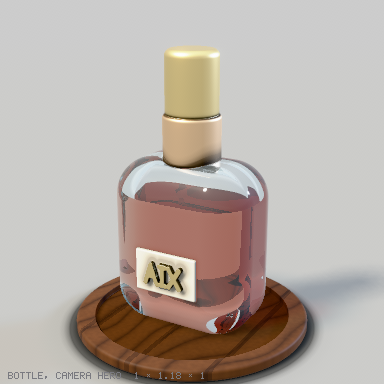
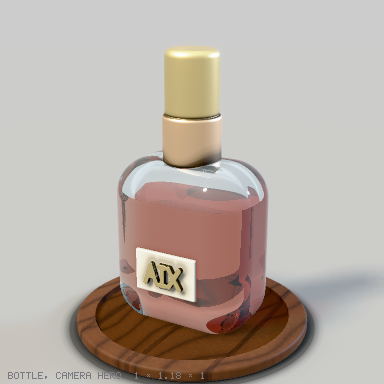
Keep the absorption of glass seen through glass, and light a glass past the reflection budget once
The glass shader kept the absorption along its refracted ray in one array that
every depth of the recursion shared. The exit's trace meets glass again whenever
glass is seen through glass (the chain of two in full quality), and that glass's
own shade reset and refilled the array, so the outer glass lost its absorption
and the inner glass's was applied twice. An amber slab with a clear pane behind
it came out (0.93, 0.87, 0.80) instead of (0.93, 0.26, 0.09); the tumbler's
drink seen from above, through the glass's upper wall, was drawn almost black
(its absorption twice over), and a bottle's shoulder above its liquid took the
liquid's pink. The absorption is now kept per depth.

A glass's directional highlights were added analytically whenever its reflection
was not traced, but an untraced reflection is the sky as a mirror sees it, the
lights' softboxes included, so the light was counted twice: a glass seen in a
mirror in draft quality (the strips), or at the second bounce in full. Its
highlight in the key's slot was half as bright again (15.3 against 10.7). A
directional light's highlight on glass is now always its softbox; point lights,
which have none, keep their analytic one.

Tests: a clear pane behind an amber slab leaves it amber; the key's slot over a
glass seen in a mirror is the same in full and draft quality, centre sample for
centre sample. The tumbler test now scans the drink below its front rim: above
[…]

diff --git a/tests/shading.test.ts b/tests/shading.test.ts
@@ -9,7 +9,7 @@ import { surfaceNets } from "../src/mesh/surfaceNets.js";
 import { beautyCamera, beautyPrime, renderBeauty, renderBeautyResult, type BeautyLight, type BeautyOptions } from "../src/render/beauty.js";
 import { allocBuffers, beautyCache, materialIds, materialKey, type Buffers } from "../src/render/kernel.js";
 import { pbr, type PbrTables } from "../src/render/pbr.js";
-import type { Camera } from "../src/render/camera.js";
+import { project, toView, type Camera } from "../src/render/camera.js";
 import { buildEnvironment, prefilterLevels, projectSh, type EnvironmentState } from "../src/render/environment.js";
 import { FLAG_EDGE, KEY, KIND_FLOOR, KIND_MASK, KIND_MODEL } from "../src/render/photometry.js";
 import { openBeautyPool } from "../src/render/beauty-pool.js";
@@ -39,6 +39,24 @@ function shade(shape: Shape3, opts: Omit<BeautyOptions, "cellSize">, resolution 
   const hdr = new Float32Array(size * size * 3);
   for (const s of slots) for (let k = 0; k < hdr.length; k++) hdr[k] += s[k];
   return { hdr, slots, buffers, size, camera };
+}
+
+/**
+ * The kernel's first pass alone, no edge pass and no filter: each pixel's one centre sample, its radiance per slot
+ * (R, 3 floats a slot) as it leaves the rows. Two renders that differ only in a budget the centre samples share can be
+ * compared pixel for pixel.
+ */
+function primaryOnly(shape: Shape3, opts: Omit<BeautyOptions, "cellSize">, resolution = 40): { R: Float32Array; size: number; W: number } {
+  const nets = surfaceNets(shape, { resolution });
+  const mesh = nets.mesh, bounds = shape.bounds, size = opts.size;
+  const o: BeautyOptions = { ...opts, cellSize: nets.cellSize };
+  const camera = beautyCamera(mesh, bounds, o);
+  const prime = beautyPrime(mesh, camera, size);
+  const tables = pbr.prepare!({ shape, mesh, bounds, opts: o, camera, prime, size, cell: nets.cellSize, cache: beautyCache(), shared: false }) as PbrTables;
+  const buffers = allocBuffers(pbr.layout(o, size), size, false);
+  const rows = pbr.rows({ shape, mesh, bounds, opts: o, camera, prime, size, cell: nets.cellSize, buffers, tables, ids: materialIds(mesh.materials.map(materialKey)) });
+  for (let y = 0; y < size; y++) rows.primary(y);
+  return { R: buffers.R as Float32Array, size, W: (buffers.R as Float32Array).length / (size * size) };
 }
 
 /** The studio's tables with the sky replaced by a constant radiance L everywhere: no structure, cards, sun or stars. */
@@ -164,15 +182,21 @@ describe("shading: glass", () => {
     const shape = check(src, "tumbler.aix").output!;
     const size = 256;
     const nets = surfaceNets(shape, { resolution: 64 });
-    const r = renderBeautyResult(shape, nets.mesh, shape.bounds, { size, cellSize: nets.cellSize, lightSize: 2.5 });
+    const opts = { size, cellSize: nets.cellSize, lightSize: 2.5 };
+    const r = renderBeautyResult(shape, nets.mesh, shape.bounds, opts);
     const c = r.canvas;
+    // The drink seen through the side wall starts below where its surface meets the near wall: above that row the
+    // camera looks down through the glass onto the drink's surface, a face of its own (lighter for the sky it reflects),
+    // and the step between the two is the drink's front rim, not a contour band.
+    const a = (35 * Math.PI) / 180, cam = beautyCamera(nets.mesh, shape.bounds, opts);
+    const rim = Math.ceil(project(cam, toView(cam, [1.32 * Math.sin(a), 0.26 + 2.4, 1.32 * Math.cos(a)]))!.y) + 4;
     const rgbAt = (x: number, y: number) => { const p = c.get(x, y); return [(p >> 16) & 255, (p >> 8) & 255, p & 255]; };
     const lum = (x: number, y: number) => { const [R, G, B] = rgbAt(x, y); return 0.2126 * R + 0.7152 * G + 0.0722 * B; };
     // The drink's body seen through the wall: orange, mid-bright. Down the middle column, its longest run of rows.
     const body = (x: number, y: number) => { const [R, , B] = rgbAt(x, y); const l = lum(x, y); return R - B > 50 && l > 60 && l < 200; };
     const cx = size / 2 - 4;
     let best = [0, 0], run = -1;
-    for (let y = 0; y <= size; y++) {
+    for (let y = rim; y <= size; y++) {
       if (y < size && body(cx, y)) { if (run < 0) run = y; continue; }
       if (run >= 0 && y - run > best[1] - best[0]) best = [run, y];
       run = -1;
@@ -218,5 +242,49 @@ describe("shading: glass", () => {
     };
     expect(ratio(materialFromString("amber")!)).toBeGreaterThan(1.3);
     expect(Math.abs(ratio(customMaterial({ color: [1, 1, 1], transmit: 0.9, rough: 0.05 })) - 1)).toBeLessThan(0.05);
+  });
+
+  it("keeps the absorption of glass seen through glass: a clear pane behind an amber slab leaves it amber", () => {
+    // A thick amber slab in front of the camera, and behind it, in the line of sight or not, a thin clear pane. Two
+    // small opaque balls fix the model's box, so the reach Beer's law is measured in is the same in both.
+    const amber = customMaterial({ color: [1, 0.55, 0.1], transmit: 1, rough: 0.05 });
+    const clear = customMaterial({ color: [1, 1, 1], transmit: 1, rough: 0.05 });
+    const grey = customMaterial({ color: [0.6, 0.6, 0.6], rough: 0.8 });
+    const centre = (paneBehind: boolean) => {
+      const parts = [
+        O.paint(O.move(P.box(2, 2, 1), 0, 3, 1), amber),
+        paneBehind ? O.paint(O.move(P.box(2, 2, 0.2), 0, 3, -1), clear) : O.paint(O.move(P.box(0.2, 0.2, 0.2), 1.2, 2.2, -1.2), clear),
+        O.paint(O.move(P.sphere(0.1), -1.3, 2.1, -1.4), grey), O.paint(O.move(P.sphere(0.1), 1.3, 3.9, 1.6), grey),
+      ];
+      // Off the line of sight, the pane is a small block in a corner of the same box.
+      const r = shade(O.union(parts), { size: 48, azimuth: 0, elevation: 0, lights: [dark] }, 48);
+      const i = 24 * 48 + 24;
+      return [r.hdr[i * 3], r.hdr[i * 3 + 1], r.hdr[i * 3 + 2]];
+    };
+    const alone = centre(false), behind = centre(true);
+    // Through the amber, green and blue are mostly absorbed; a clear pane behind it takes a little more, never less.
+    expect(alone[1] / alone[0]).toBeLessThan(0.4);
+    for (let c = 1; c < 3; c++) expect(behind[c], `channel ${c}: ${behind} against ${alone}`).toBeLessThan(alone[c] * 1.1);
+  });
+
+  it("lights a glass seen past the reflection budget once: its reflection's softbox is its highlight", () => {
+    // A glass ball in front of a mirror, lit from straight above; the camera sees it in the mirror, at depth 1. In
+    // full quality its reflection is traced (depth 1 < 2), in draft it is not (1 = the draft's budget) and takes the
+    // sky a mirror sees, the key's softbox included. Pixel for pixel the centre samples must then agree in the key's
+    // slot: an analytic highlight added on top in draft lit the ball's highlight half as bright again.
+    const mirror = customMaterial({ color: [1, 1, 1], metal: 1, rough: 0.03 });
+    const glass = customMaterial({ color: [1, 1, 1], transmit: 1, rough: 0.05 });
+    const scene = O.union([O.paint(O.move(P.box(5, 4, 0.2), 0, 2, 0), mirror), O.paint(O.move(P.sphere(0.5), 0, 2.6, 1.3), glass)]);
+    const opts = { size: 200, azimuth: 28, elevation: 8, splitLights: true, lights: [{ azimuth: 0, elevation: 90, size: 1, color: [1, 1, 1], power: 1 } as BeautyLight] };
+    const peak = (quality: "full" | "draft") => {
+      const { R, size, W } = primaryOnly(scene, { ...opts, quality }, 64);
+      // The ball's reflection: right of the ball itself, from a camera to its right.
+      let p = 0;
+      for (let y = 50; y < 100; y++) for (let x = 105; x < 145; x++) p = Math.max(p, R[(y * size + x) * W + 4]);
+      return p;
+    };
+    const full = peak("full"), draft = peak("draft");
+    expect(full).toBeGreaterThan(1);
+    expect(Math.abs(draft - full) / full).toBeLessThan(0.05);
   });
 });

diff --git a/src/render/pbr-glass.ts b/src/render/pbr-glass.ts
@@ -12,8 +12,8 @@
  * Beer's law, σ = BEER(1 − c)/reach per channel (photometry.ts), the law the shadows through glass use too.
  *
  * A glass that does not let all its light through (transmit < 1) mixes with the surface shaded as a smooth
- * dielectric of its colour, as the old renderer did; the lights' highlights are analytic, each with one occlusion
- * ray, and a directional light's is left to the traced reflection, which sees its softbox.
+ * dielectric of its colour, as the old renderer did; a point light's highlight is analytic, with one occlusion ray,
+ * and a directional light's is left to the reflection, which sees its softbox, traced or not.
  *
  * Glass seen through glass is shaded to a chain of two in full quality (the tumbler's drink, inside its glass, shows
  * no contour bands at two, so the chain is not cut to one) and one in draft; past it, the sky behind,
@@ -50,8 +50,8 @@ export interface GlassCore {
   gradient(x: number, y: number, z: number, out: Float64Array): void;
   /** Shade the surface at depth as an opaque smooth dielectric of the glass's colour, without tracing, into COL at depth. */
   shadeOpaque(depth: number, px: number, py: number, pz: number, nx: number, ny: number, nz: number, r: number, g: number, b: number, rough: number, dx: number, dy: number, dz: number): void;
-  /** Add each light's GGX highlight on a smooth dielectric, times k, with one occlusion ray each, into COL at depth; directional lights are left out when `traced`. */
-  highlights(depth: number, px: number, py: number, pz: number, nx: number, ny: number, nz: number, dx: number, dy: number, dz: number, rough: number, k: number, traced: boolean, reuse: boolean): void;
+  /** Add each point light's GGX highlight on a smooth dielectric, times k, with one occlusion ray each, into COL at depth; a directional light's is the softbox the reflection sees. */
+  highlights(depth: number, px: number, py: number, pz: number, nx: number, ny: number, nz: number, dx: number, dy: number, dz: number, rough: number, k: number, reuse: boolean): void;
 }
 
 /** The glass shader over a kernel's core: shade(depth, hit point, the field's normal there, the material, the ray, its linear colour) into COL at depth. */
@@ -60,7 +60,9 @@ export function createGlass(core: GlassCore): (depth: number, px: number, py: nu
   // Per depth: the reflection, what was seen through, the opaque shade.
   const GR = new Float64Array(MAXD * W), GT = new Float64Array(MAXD * W), GO = new Float64Array(MAXD * W);
   const G = new Float64Array(3);
-  const ABS = new Float64Array(3);
+  // The absorption along the refracted ray, per depth: the exit's trace can meet glass again (the chain), whose own
+  // shade must not overwrite this one's (an amber slab seen in front of a clear pane lost its amber).
+  const ABS = new Float64Array(MAXD * 3);
 
   return (depth, px, py, pz, nx, ny, nz, m, dx, dy, dz, cr, cg, cb) => {
     const o = depth * W, q = (depth + 1) * W;
@@ -79,7 +81,8 @@ export function createGlass(core: GlassCore): (depth: number, px: number, py: nu
       for (let k = 0; k < W; k++) GR[o + k] = COL[q + k];
     } else core.sky(mx, my, mz, SEE_MIRROR, GR, o);
     // Refraction: into the solid, across it (reflecting inside where it cannot leave), and out.
-    ABS[0] = 0; ABS[1] = 0; ABS[2] = 0;
+    const a3 = depth * 3;
+    ABS[a3] = 0; ABS[a3 + 1] = 0; ABS[a3 + 2] = 0;
     let seen = false;
     const eta = 1 / IOR;
     const k1 = 1 - eta * eta * (1 - cos * cos);
@@ -93,7 +96,7 @@ export function createGlass(core: GlassCore): (depth: number, px: number, py: nu
       for (let ev = 0; ev <= TIR_EVENTS; ev++) {
         const t = rays.insideMarch(ox, oy, oz, ix, iy, iz, m);
         if (t < 0) break;
-        ABS[0] += rays.abs[0]; ABS[1] += rays.abs[1]; ABS[2] += rays.abs[2];
+        ABS[a3] += rays.abs[0]; ABS[a3 + 1] += rays.abs[1]; ABS[a3 + 2] += rays.abs[2];
         const qx = ox + ix * t, qy = oy + iy * t, qz = oz + iz * t;
         core.gradient(qx, qy, qz, G);
         const gx = G[0], gy = G[1], gz = G[2];
@@ -118,7 +121,7 @@ export function createGlass(core: GlassCore): (depth: number, px: number, py: nu
     }
     if (seen) for (let k = 0; k < W; k++) GT[o + k] = COL[q + k];
     else core.sky(ix, iy, iz, SEE_BACKDROP, GT, o);
-    const ar = Math.exp(-ABS[0]), ag = Math.exp(-ABS[1]), ab = Math.exp(-ABS[2]);
+    const ar = Math.exp(-ABS[a3]), ag = Math.exp(-ABS[a3 + 1]), ab = Math.exp(-ABS[a3 + 2]);
     for (let k = 0; k < W; k += 3) { GT[o + k] *= ar; GT[o + k + 1] *= ag; GT[o + k + 2] *= ab; }
     // The glass's own surface for the light it does not let through, as a smooth dielectric of its colour.
     if (tr < 1) {
@@ -127,6 +130,6 @@ export function createGlass(core: GlassCore): (depth: number, px: number, py: nu
     } else for (let k = 0; k < W; k++) GO[o + k] = 0;
     for (let k = 0; k < W; k++) COL[o + k] = (GT[o + k] * (1 - fres) + GR[o + k] * fres) * tr + GO[o + k] * (1 - tr);
     // The lights' highlights on the glass, which the mix above scaled by its transmission.
-    core.highlights(depth, px, py, pz, nx, ny, nz, dx, dy, dz, m.rough, tr, traced, tr < 1);
+    core.highlights(depth, px, py, pz, nx, ny, nz, dx, dy, dz, m.rough, tr, tr < 1);
   };
 }

diff --git a/src/render/pbr.ts b/src/render/pbr.ts
@@ -528,17 +528,19 @@ function pbrRows(ctx: KernelContext<PbrTables>): KernelRows {
   };
 
   /**
-   * Each light's GGX highlight on a smooth dielectric (glass), times k, with one occlusion ray, into COL at depth;
-   * directional lights left to a traced reflection. With `reuse`, the glass's own surface was just shaded at this
-   * point and depth, and a light's ray it traced is taken rather than traced again.
+   * Each point light's GGX highlight on a smooth dielectric (glass), times k, with one occlusion ray, into COL at
+   * depth. A directional light's is left to the glass's reflection, which sees its softbox whether it is traced or,
+   * past the depth budget, the sky a mirror sees (adding its analytic highlight there lit a glass seen in a mirror
+   * twice, in draft quality and at the second bounce in full). With `reuse`, the glass's own surface was just shaded at
+   * this point and depth, and a light's ray it traced is taken rather than traced again.
    */
-  const highlights = (depth: number, px: number, py: number, pz: number, nx: number, ny: number, nz: number, dx: number, dy: number, dz: number, rough: number, k0: number, traced: boolean, reuse: boolean): void => {
+  const highlights = (depth: number, px: number, py: number, pz: number, nx: number, ny: number, nz: number, dx: number, dy: number, dz: number, rough: number, k0: number, reuse: boolean): void => {
     const o = depth * W;
     const alpha = Math.max(0.03, rough) ** 2, a2 = alpha * alpha;
     const nv = Math.max(1e-3, -(nx * dx + ny * dy + nz * dz));
     for (let i = 0; i < NL; i++) {
       const q = i * LS;
-      if (!LP[q + 15] || (traced && !LP[q + 6])) continue;
+      if (!LP[q + 15] || !LP[q + 6]) continue;
       const att = lightAt(i, px, py, pz);
       const lx = L3[0], ly = L3[1], lz = L3[2], far = L3[3];
       const nl = nx * lx + ny * ly + nz * lz;
